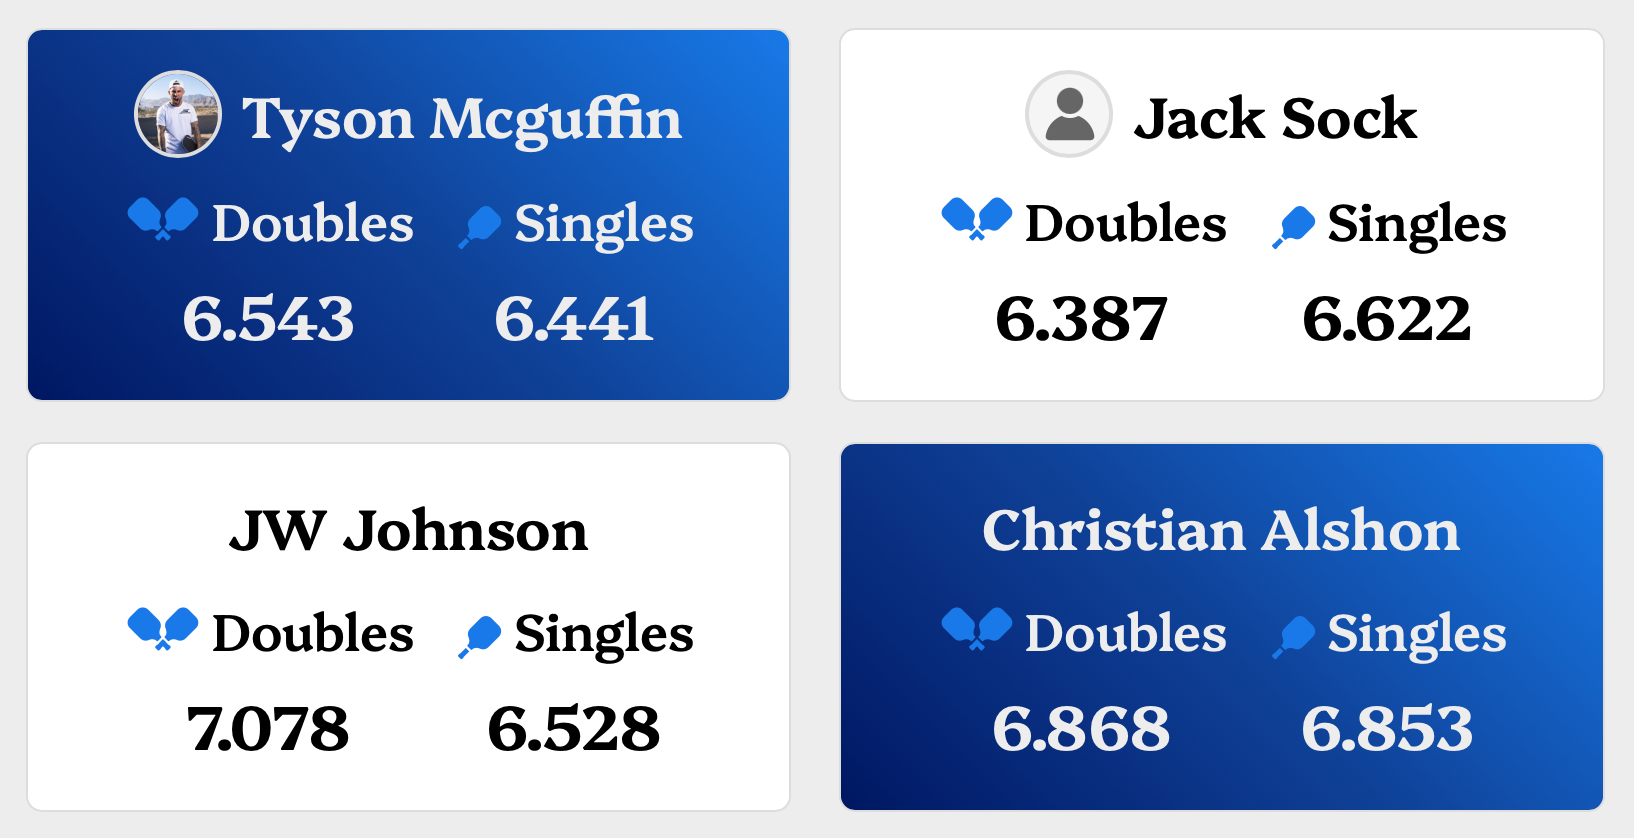
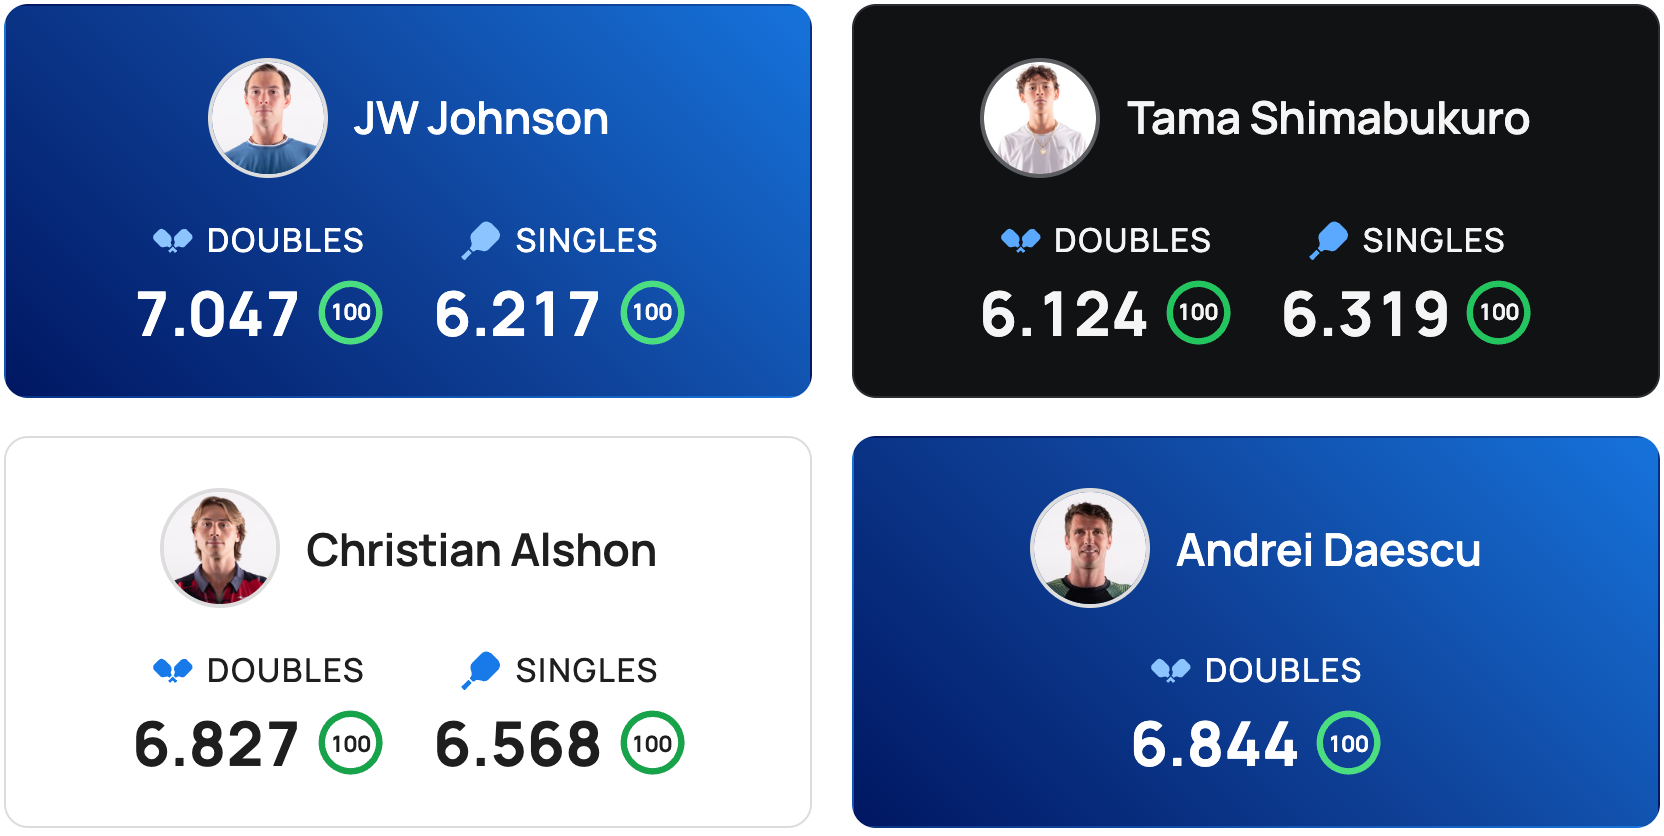
Replace screenshot and drop DUPR API planning docs
The screenshot shows the new block in all three styles. The removed
docs described the DUPR API integration and are in history if needed;
the round robin requirements stay.

diff --git a/README.md b/README.md
@@ -4,7 +4,7 @@ This plugin adds a block that shows a pickleball player's doubles and singles ra
 
 ![Sample screenshot of four blocks](assets/screenshot-1.png)
 
-In addition to the plugin itself, the `docs/` directory includes the requirements and agent implementation instructions that were used to assist the development of the plugin. See the `.cursor/rules` directory for additional Cursor-specific rules. This plugin was designed and built with the assistance of Claude, Cursor, and cursor-agent.
+The `docs/` directory holds the requirements used to build the Round Robin block, and `.cursor/rules` has Cursor-specific rules. This plugin was designed and built with the assistance of Claude, Cursor, and cursor-agent.
 
 ## Installation
 
